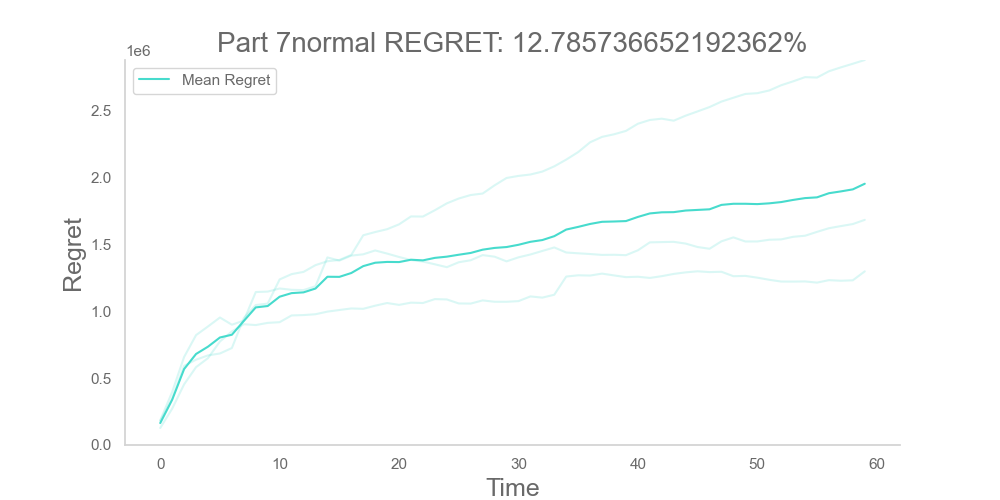
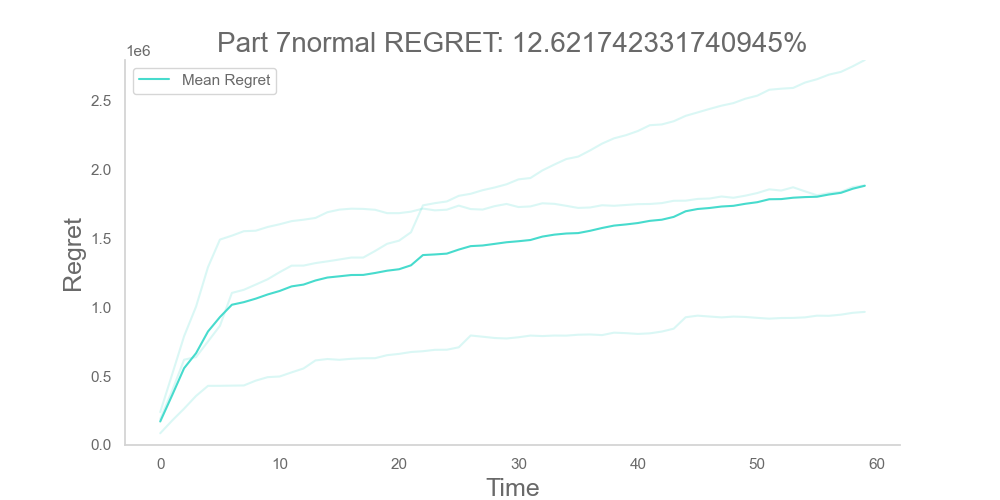
PART 7 COMPLETE

diff --git a/project/TestingOneShot.py b/project/TestingOneShot.py
@@ -11,7 +11,7 @@ from project.part_5.Testing_Env_5 import test_part5
 from project.part_6.Testing_Env_6 import test_part6
 from project.part_7.Testing_Env_7 import test_part7
 
-n_experiment = 15
+n_experiment = 20
 np.random.seed(0)
 
 testing_setup = {
@@ -173,18 +173,18 @@ if __name__ == '__main__':
         # PART 7
         print_('PART 7 BINOMIAL')
 
-        artificial_noise_ADVs = [0.0, 0.02, 0.05, 0.1]
+        artificial_noise_ADVs = [0.0, 0.005, 0.01, 0.02]
 
         for artificial_noise_ADV in artificial_noise_ADVs:
             test_part7(n_experiments=n_experiment,
-                        execution_type="binomial",
-                        demand_chart_path=demand_curves_chart_path,
-                        demand_chart_title=demand_curves_title,
-                        artificial_noise_ADV=artificial_noise_ADV,
-                        results_chart_path=f'{charts_path}/part7_binomial_'
-                                           f'ADV_noise{artificial_noise_ADV}_.png',
-                        results_chart_title=f'Part 7 ['
-                                            f'ADV_noise:{artificial_noise_ADV}] ')
+                       execution_type="binomial",
+                       demand_chart_path=demand_curves_chart_path,
+                       demand_chart_title=demand_curves_title,
+                       artificial_noise_ADV=artificial_noise_ADV,
+                       results_chart_path=f'{charts_path}/part7_binomial_'
+                                          f'ADV_noise{artificial_noise_ADV}_.png',
+                       results_chart_title=f'Part 7 ['
+                                           f'ADV_noise:{artificial_noise_ADV}] ')
             print_(f'Sub-test completed.\n'
                    f'Time: {datetime.now()}\n')
 
@@ -197,23 +197,23 @@ if __name__ == '__main__':
             # PART 7
             print_('PART 7 NORMAL')
 
-            artificial_noise_ADVs = [0.0, 0.02, 0.05]
-            artificial_noise_CRs = [0.0, 0.02, 0.05]
+            artificial_noise_ADVs = [0.0, 0.005, 0.01, 0.02]
+            artificial_noise_CRs = [0.0, 0.005, 0.01, 0.02]
 
             for artificial_noise_ADV in artificial_noise_ADVs:
                 for artificial_noise_CR in artificial_noise_CRs:
                     test_part7(n_experiments=n_experiment,
-                              execution_type="normal",
-                              demand_chart_path=demand_curves_chart_path,
-                              demand_chart_title=demand_curves_title,
-                              artificial_noise_ADV=artificial_noise_ADV,
-                              artificial_noise_CR=artificial_noise_CR,
-                              results_chart_path=f'{charts_path}/part7_normal_'
-                                                 f'artificial-noise-ADV{artificial_noise_ADV}_'
-                                                 f'artificial-noise-CR{artificial_noise_CR}.png',
-                              results_chart_title=f'Part 7 ['
-                                                  f'ADV_noise:{artificial_noise_ADV} '
-                                                  f'CR_noise:{artificial_noise_CR}] ')
+                               execution_type="normal",
+                               demand_chart_path=demand_curves_chart_path,
+                               demand_chart_title=demand_curves_title,
+                               artificial_noise_ADV=artificial_noise_ADV,
+                               artificial_noise_CR=artificial_noise_CR,
+                               results_chart_path=f'{charts_path}/part7_normal_'
+                                                  f'ADV_noise{artificial_noise_ADV}_'
+                                                  f'CR_noise{artificial_noise_CR}.png',
+                               results_chart_title=f'Part 7 ['
+                                                   f'ADV_noise:{artificial_noise_ADV} '
+                                                   f'CR_noise:{artificial_noise_CR}] ')
                     print_(f'Sub-test completed.\n'
                            f'Time: {datetime.now()}\n')
 

diff --git a/project/part_7/Testing_Env_7.py b/project/part_7/Testing_Env_7.py
@@ -18,8 +18,8 @@ def test_part7(n_experiments=10,
                execution_type="binomial",
                demand_chart_path='other_files/testing_part7_demandcurves.png',
                demand_chart_title='Part 7 - Demand Curves',
-               artificial_noise_ADV=0.02,
-               artificial_noise_CR=0.02,
+               artificial_noise_ADV=0.0,
+               artificial_noise_CR=0.0,
                results_chart_path='other_files/testing_part7_regrets.png',
                results_chart_title='Part 7'):
     # one product to sell
@@ -133,6 +133,7 @@ def execute_experiment_binomial(args):
         # Day step
         current_day, done = bidding_environment.step()
 
+    print(f'daily regret: {np.sum(regret) / n_days}\n')
     return regret, optimal
 
 
@@ -147,7 +148,6 @@ def execute_experiment_normal(args):
                                            artificial_noise_CR=artificial_noise_cr,
                                            multiclasshandler=mch)
 
-    current_day = 0
     done = False
     regret = []
     optimal, opt_price = fix_price_budget_allocator.compute_optimal_reward(bidding_environment, mch)
@@ -169,6 +169,7 @@ def execute_experiment_normal(args):
         # Day step
         current_day, done = bidding_environment.step()
 
+    print(f'daily regret: {np.sum(regret) / n_days}\n')
     return regret, optimal
 
 

diff --git a/project/part_7_normal/Env_7.py b/project/part_7_normal/Env_7.py
@@ -35,7 +35,8 @@ class Env7:
             if probability < 0:
                 probability = 1e-3
 
-            purchases[class_names[cl]] = int(np.random.normal(probability, noise_std) * ck)
+            noise = np.sqrt(probability * (1 - probability) * ck)
+            purchases[class_names[cl]] = int(np.random.normal(probability * ck, noise))
 
         return purchases
 
